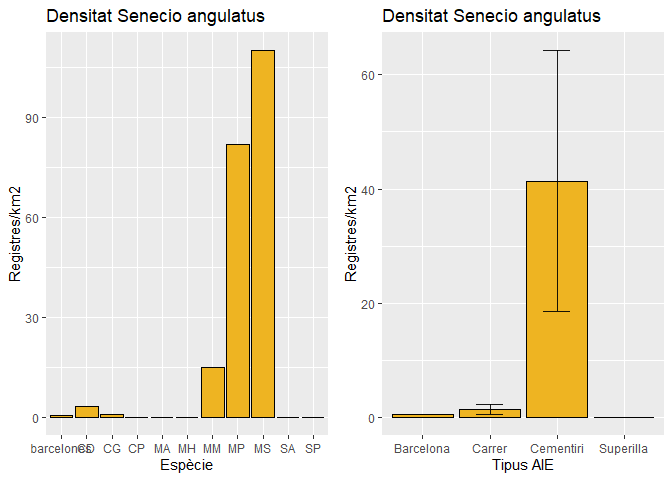
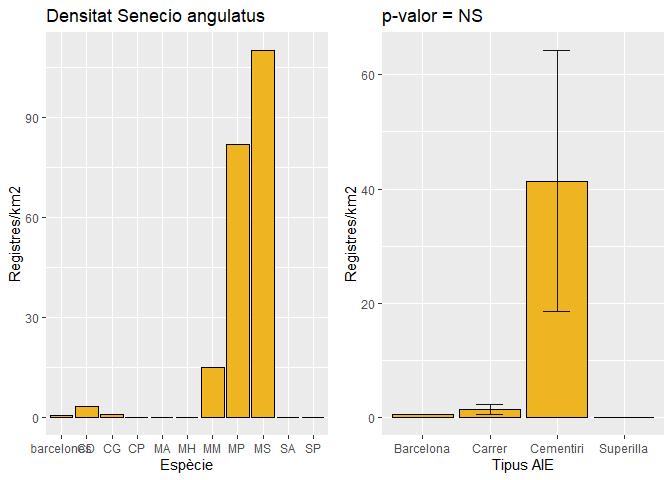
Completion 5C

Changed region(s): [[0.5625, 0.0, 0.9062, 0.0625]]

diff --git a/5AnalisiAreesInteresEspecial.md b/5AnalisiAreesInteresEspecial.md
@@ -14,6 +14,7 @@ library(sf)
 library(dplyr)
 library(tidyverse)
 library(gridExtra)
+library(pgirmess)
 ```
 
 Carreguem les dades obtingudes en els anteriors scripts:
@@ -740,7 +741,7 @@ Sí hi ha diferències entre tipus d'AIE, específicament entre les superilles i
 
 ### C - Densitat per espècie
 
-Passem a la tercera pregunta, ens plantejave,: C. Hi ha diferències entre la **densitat** de registres per a **cadascuna de les espècies** susceptibles a ser invasores entre el global de la ciutat, en carrers, superilles, i cementiris? Per tant repetim l'anàlisi anterior filtrant per a cadascuna de les espècies susceptibles a ser invasores. Fem una funció per a no repetir tant de codi:
+Passem a la tercera pregunta, ens plantejave,: C. Hi ha diferències entre la **densitat** de registres per a **cadascuna de les espècies** susceptibles a ser invasores entre el global de la ciutat, en carrers, superilles, i cementiris? Per tant repetim l'anàlisi anterior filtrant per a cadascuna de les espècies susceptibles a ser invasores. Fem una funció per a no repetir tant de codi. Previament testo a banda el compliment de les assumpcions de la ANOVA per a cada espècie. No es compleixen les condicions en cap de manera que és necesari aplicar un test no paramètric. Opto pel test de Kruskal-Wallis, l'incorporo a la funció.
 
 ``` r
 analisi_AIE_especie <- function(especie, colorespecie){
@@ -762,9 +763,22 @@ df <- densitat_df %>%
   group_by(tipus) %>% 
   summarise(mean = mean(densitat),
             se = se(densitat))
+
+# test no parametric:
+nparam <- kruskal.test(densitat ~ tipus, data = densitat_df)
+
+if (nparam$p.value < 0.05) {
+  print(kruskalmc(densitat_df$densitat, densitat_df$tipus))
+  pvalor <- round(nparam$p.value,3)
+} else{
+  pvalor = "NS"
+}
+
+# pvalor <- nparam$p.value # Si es volgués veure el p-valor encara que sigui no significatiu.
+
 g2<-ggplot(df) +
     geom_bar( aes(x=tipus, y=mean), stat="identity", color="black", fill=colorespecie) +
-    geom_errorbar( aes(x=tipus, ymin=mean-se, ymax=mean+se), width=0.4, colour="black", alpha=0.9, size=0.5) + ylab("Registres/km2") + xlab("Tipus AIE") + labs(title = (paste("Densitat" , paste(especie))))
+    geom_errorbar( aes(x=tipus, ymin=mean-se, ymax=mean+se), width=0.4, colour="black", alpha=0.9, size=0.5) + ylab("Registres/km2") + xlab("Tipus AIE") + labs(title = (paste("p-valor =", pvalor)))
 
 grid.arrange(g1, g2, nrow = 1)
 }
@@ -787,6 +801,17 @@ analisi_AIE_especie("Cenchrus longisetus", "gray")
 ``` r
 analisi_AIE_especie("Dichondra micrantha", "lightgreen")
 ```
+
+    ## Multiple comparison test after Kruskal-Wallis 
+    ## p.value: 0.05 
+    ## Comparisons
+    ##                     obs.dif critical.dif difference
+    ## Barcelona-Carrer          2    10.103756      FALSE
+    ## Barcelona-Cementiri       4     9.585265      FALSE
+    ## Barcelona-Superilla       4    10.716652      FALSE
+    ## Carrer-Cementiri          6     6.390176      FALSE
+    ## Carrer-Superilla          6     7.987721      FALSE
+    ## Cementiri-Superilla       0     7.320867      FALSE
 
 ![](5AnalisiAreesInteresEspecial_files/figure-markdown_github/unnamed-chunk-28-3.png)
 
@@ -831,124 +856,6 @@ analisi_AIE_especie("Senecio angulatus", "goldenrod2")
 ```
 
 ![](5AnalisiAreesInteresEspecial_files/figure-markdown_github/unnamed-chunk-28-10.png)
-
-Cal incorporar estadística al gràfic
-
-``` r
-df_especie <-actdf_sf[actdf_sf$taxon.name=="Acacia saligna",]
-vectorres <- c()
-x <- 1
-for (i in llistatAIE){
-  vectorres[x]<- densitat_global(df_especie, get(i)) # Aquí canviem el dataset d'entrada
-  x<- x+1
-}
-```
-
-    ## Warning: attribute variables are assumed to be spatially constant throughout all
-    ## geometries
-
-    ## Warning: attribute variables are assumed to be spatially constant throughout all
-    ## geometries
-
-    ## st_as_s2(): dropping Z and/or M coordinate
-
-    ## Warning: attribute variables are assumed to be spatially constant throughout all
-    ## geometries
-
-    ## st_as_s2(): dropping Z and/or M coordinate
-
-    ## Warning: attribute variables are assumed to be spatially constant throughout all
-    ## geometries
-
-    ## st_as_s2(): dropping Z and/or M coordinate
-
-    ## Warning: attribute variables are assumed to be spatially constant throughout all
-    ## geometries
-
-    ## st_as_s2(): dropping Z and/or M coordinate
-
-    ## Warning: attribute variables are assumed to be spatially constant throughout all
-    ## geometries
-
-    ## st_as_s2(): dropping Z and/or M coordinate
-
-    ## Warning: attribute variables are assumed to be spatially constant throughout all
-    ## geometries
-
-    ## st_as_s2(): dropping Z and/or M coordinate
-
-    ## Warning: attribute variables are assumed to be spatially constant throughout all
-    ## geometries
-
-    ## Warning: attribute variables are assumed to be spatially constant throughout all
-    ## geometries
-
-    ## st_as_s2(): dropping Z and/or M coordinate
-
-    ## Warning: attribute variables are assumed to be spatially constant throughout all
-    ## geometries
-
-    ## st_as_s2(): dropping Z and/or M coordinate
-
-    ## Warning: attribute variables are assumed to be spatially constant throughout all
-    ## geometries
-
-    ## st_as_s2(): dropping Z and/or M coordinate
-
-``` r
-densitat_df <- data.frame(AIE = llistatAIE, densitat=vectorres)
-densitat_df$tipus <- c(NA, "Carrer","Carrer","Carrer", "Superilla", "Superilla", "Cementiri", "Cementiri", "Cementiri", "Cementiri", "Cementiri")
-
-
-
-# Normalitat
-shapiro.test(densitat_df$densitat) # si complim
-```
-
-    ## 
-    ##  Shapiro-Wilk normality test
-    ## 
-    ## data:  densitat_df$densitat
-    ## W = 0.35805, p-value = 3.179e-08
-
-``` r
-# Homocedasticitat
-bartlett.test(densitat ~ tipus, data = densitat_df) # si complim
-```
-
-    ## 
-    ##  Bartlett test of homogeneity of variances
-    ## 
-    ## data:  densitat by tipus
-    ## Bartlett's K-squared = Inf, df = 2, p-value < 2.2e-16
-
-``` r
-# Compute the analysis of variance
-res.aov <- aov(densitat ~ tipus, data = densitat_df)
-# Summary of the analysis
-summary(res.aov)
-```
-
-    ##             Df Sum Sq Mean Sq F value Pr(>F)
-    ## tipus        2   26.8  13.402     2.8  0.128
-    ## Residuals    7   33.5   4.786               
-    ## 1 observation deleted due to missingness
-
-``` r
-# Multiple comparisons
-TukeyHSD(res.aov)
-```
-
-    ##   Tukey multiple comparisons of means
-    ##     95% family-wise confidence level
-    ## 
-    ## Fit: aov(formula = densitat ~ tipus, data = densitat_df)
-    ## 
-    ## $tipus
-    ##                             diff       lwr      upr     p adj
-    ## Cementiri-Carrer    1.480297e-16 -4.705354 4.705354 1.0000000
-    ## Superilla-Carrer    4.092918e+00 -1.788774 9.974610 0.1706592
-    ## Superilla-Cementiri 4.092918e+00 -1.297742 9.483578 0.1323971
 
 ### D - Similitud entre AIEs
 
